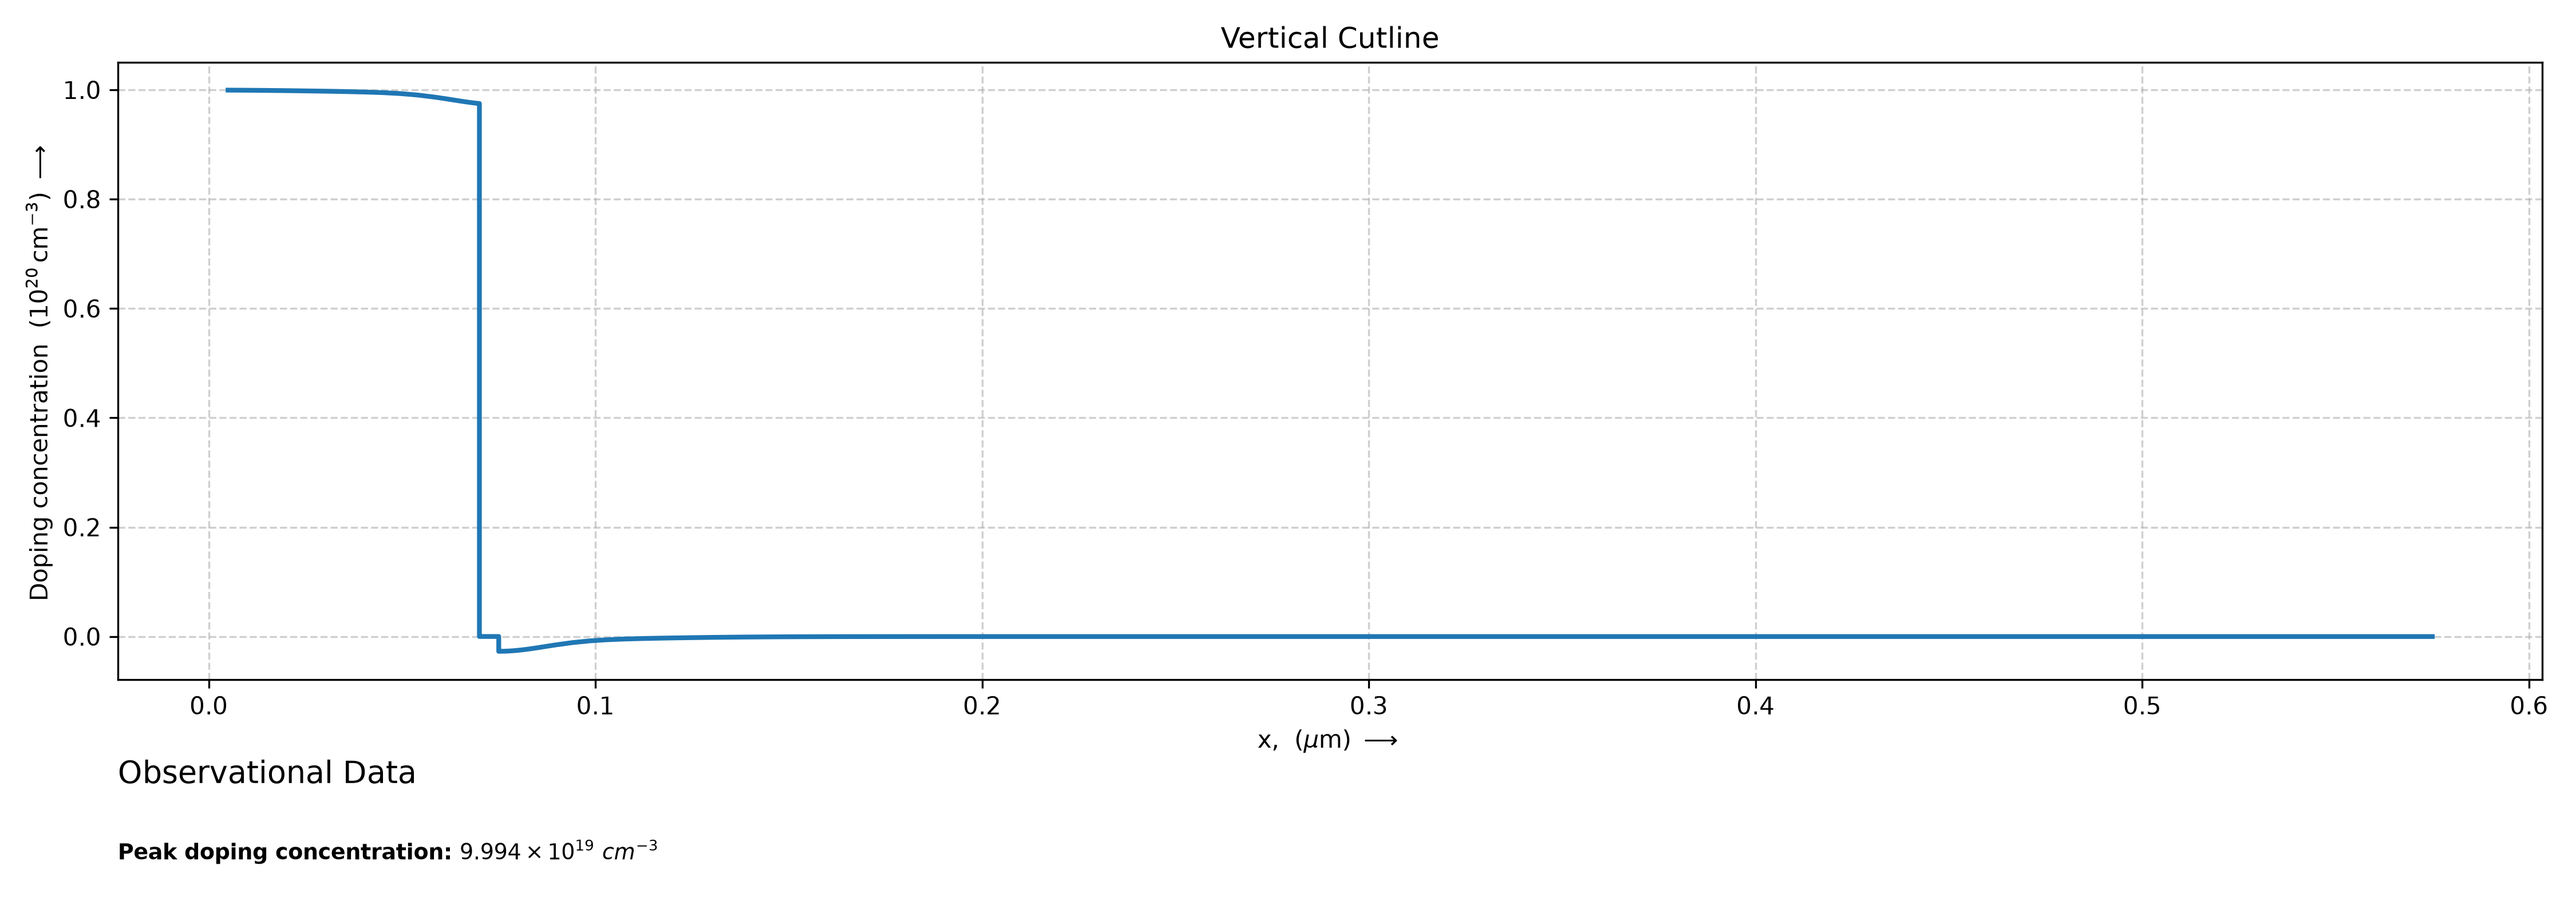
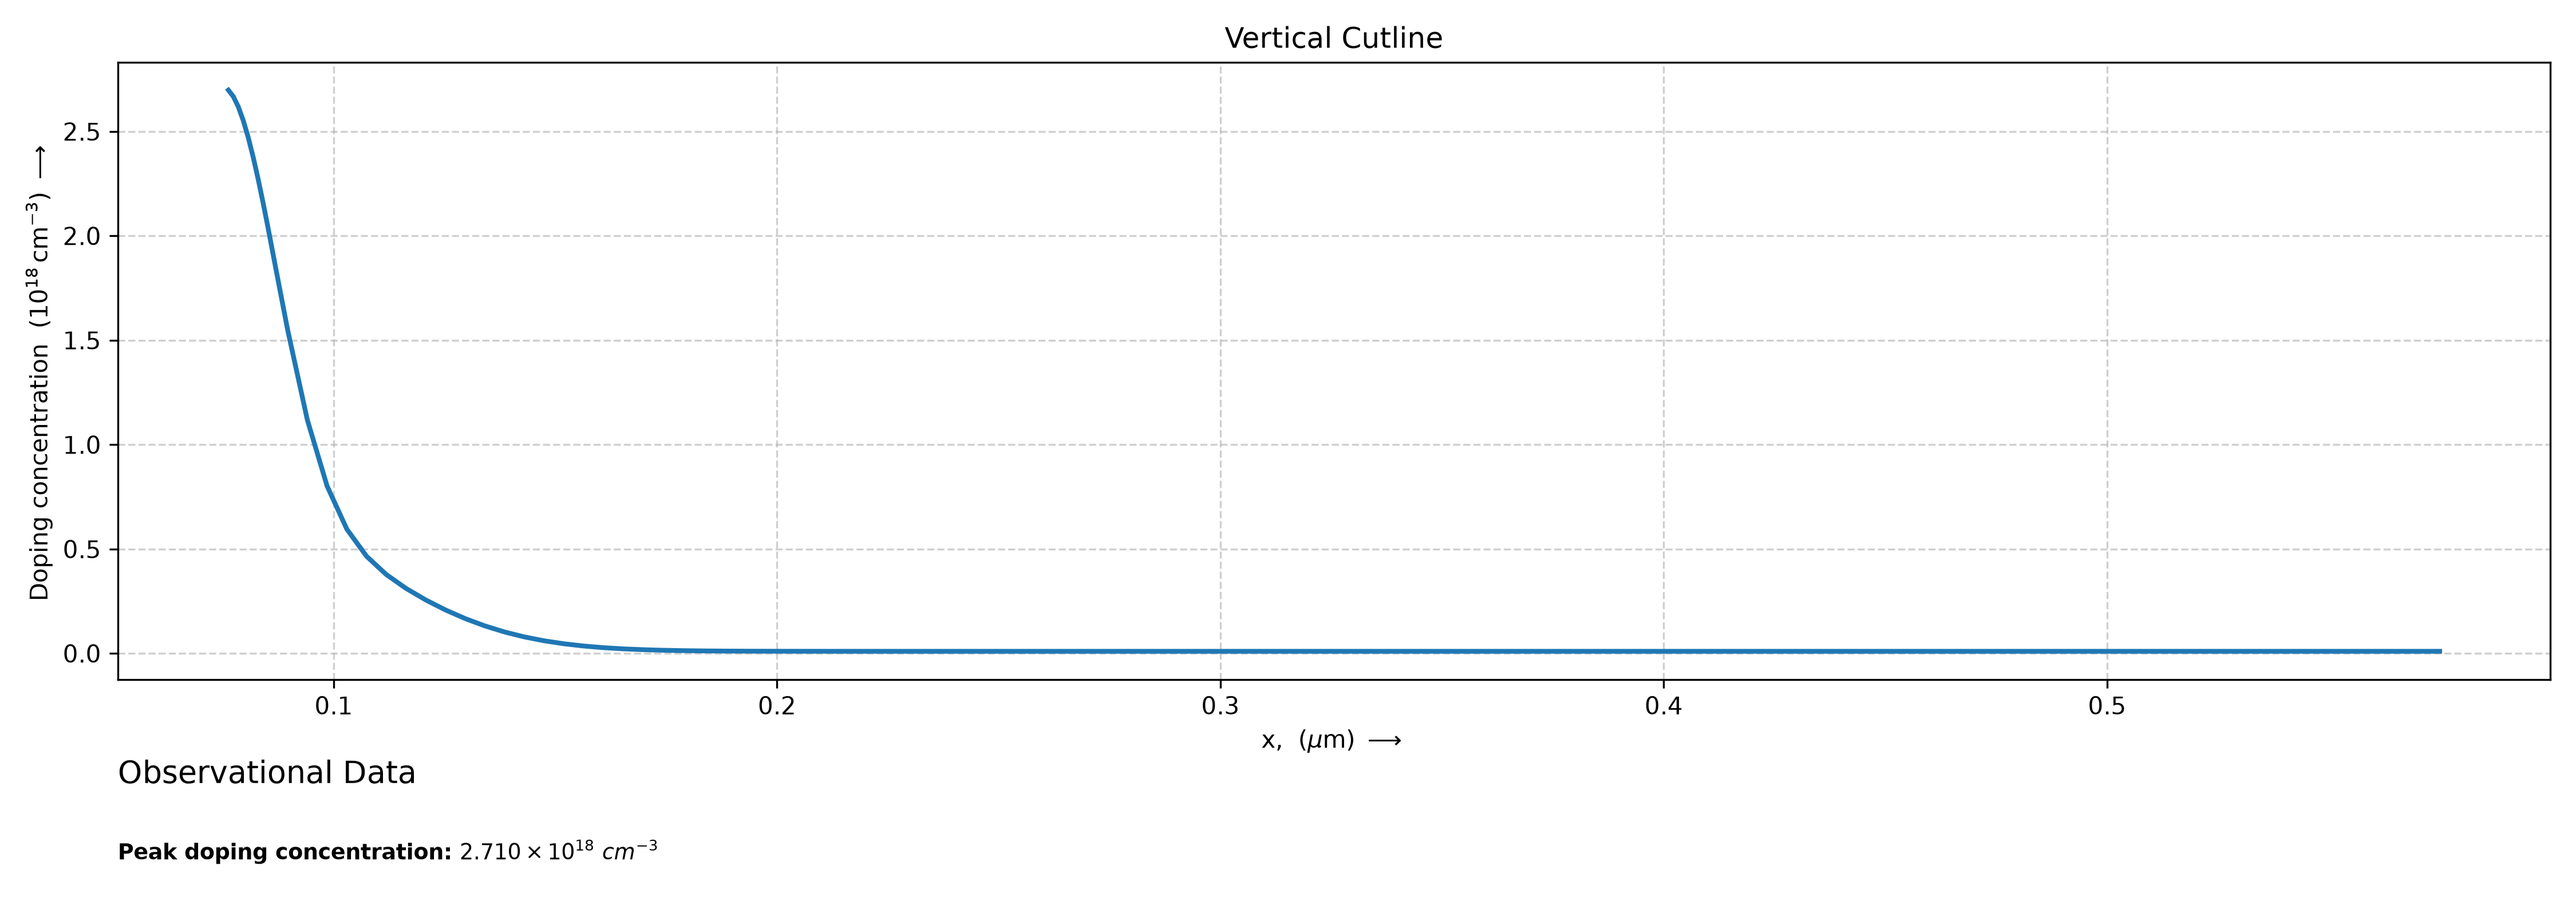
1st modification on the repo

diff --git a/Sentaurus_TCAD/py_scripts/Q2/Q2_vertical_cutline.py b/Sentaurus_TCAD/py_scripts/Q2/Q2_vertical_cutline.py
@@ -8,17 +8,24 @@ fig, ax = plt.subplots(
     1, 
     figsize=(15, 5.345)
 )
-
 #For setting up the figure to show all the plots
 manager = plt.get_current_fig_manager()
 manager.window.state(
     'zoomed'
 )
+
+
 peak_doping_conc = 0
+peak_doping_conc = abs(min(df['DopingConcentration_vertical Y']))
+df['DopingConcentration_vertical Y'] = abs( df['DopingConcentration_vertical Y'])
+print(df['DopingConcentration_vertical Y'])
 #Plotting
+
+x = df['DopingConcentration_vertical X']
+y = df['DopingConcentration_vertical Y']
 plt.plot(
-    df['DopingConcentration_vertical X'],
-    df['DopingConcentration_vertical Y']/1e20,
+    x[x >= 0.076],
+    y[x >= 0.076]/1e18,
     linewidth=2,
 )
 
@@ -26,15 +33,15 @@ plt.xlabel(
     r'x,  ($\mu$m) $\longrightarrow$'
 )
 plt.ylabel(
-    r'Doping concentration  ($10^{20}\,\mathrm{cm}^{-3}$) $\longrightarrow$'
+    r'Doping concentration  ($10^{18}\,\mathrm{cm}^{-3}$) $\longrightarrow$'
 )
 plt.title(
     r'Vertical Cutline',
 )
 
 
-peak_doping_conc=max(df['DopingConcentration_vertical Y'])
-#print(peak_doping_conc)
+
+# print(abs(peak_doping_conc))
 
 plt.text(
     0,-0.18,
@@ -47,7 +54,7 @@ plt.text(
 plt.text(
     0,-0.3,
     f'Peak doping concentration: '
-    f'${peak_doping_conc/1e19:1.3f} \\times 10^{{19}}$ $cm^{{-3}}$',
+    f'${peak_doping_conc/1e18:1.3f} \\times 10^{{18}}$ $cm^{{-3}}$',
     ha='left',
     va='bottom',
     fontsize=9,
@@ -69,8 +76,8 @@ plt.grid(
 )
 
 plt.tight_layout()
-plt.savefig(
-    'Q2_vertical_cutline.png',
-    dpi = 300
-)
+# plt.savefig(
+#     'Q2_vertical_cutline.png',
+#     dpi = 300
+# )
 plt.show()

diff --git a/Sentaurus_TCAD/py_scripts/Q2/Q2_horzontal_cutline.py b/Sentaurus_TCAD/py_scripts/Q2/Q2_horzontal_cutline.py
@@ -2,6 +2,7 @@ import pandas as pd, matplotlib.pyplot as plt, numpy as np
 df = pd.read_csv(
     r'D:\EDA_Lab\25EC01004\Sentaurus_TCAD\data\q_2_horizontal_cutline_new.csv'
 )
+channel_length = 0
 
 #For setting up the figure to show all the plots
 manager = plt.get_current_fig_manager()
@@ -10,11 +11,17 @@ manager.window.state(
 )
 
 #Plotting
+x = df['DopingConcentration_horizontal X']
+y = df['DopingConcentration_horizontal Y']
 plt.plot(
     df['DopingConcentration_horizontal X'],
     df['DopingConcentration_horizontal Y']/1e20,
     linewidth=2,
 )
+
+
+channel_length = -x.iloc[61]+x.iloc[82]
+#print(channel_length)
 
 plt.xlabel(
     r'x,  ($\mu$m) $\longrightarrow$'
@@ -26,7 +33,19 @@ plt.title(
     r'Horizontal Cutline',
 )
 
-
+plt.annotate(
+    "",
+    xy = (x.iloc[61],0.05),
+    xytext= (x.iloc[82], 0.05),
+    arrowprops=dict(arrowstyle='<->')
+)
+plt.text(
+    (x.iloc[61] + x.iloc[82])/2,
+    0.05,
+    f"{channel_length:2.6f} $\\mu m$",
+    ha = 'center',
+    va = 'bottom'
+)
 
 
 plt.grid(

diff --git a/Sentaurus_TCAD/py_scripts/Q6_Output_Characteristics.py b/Sentaurus_TCAD/py_scripts/Q6_Output_Characteristics.py
@@ -45,7 +45,7 @@ ax[0].set_xlabel(
     r'$V_{DS}$,  (V) $\longrightarrow$'
 )
 ax[0].set_ylabel(
-    r'$I_D$,  (mA) $\longrightarrow$'
+    r'$I_D$,  ($mA/ \mu m$) $\longrightarrow$'
 )
 
 
@@ -72,7 +72,7 @@ ax[1].set_xlabel(
     r'$V_{DS}$,  (V) $\longrightarrow$'
 )
 ax[1].set_ylabel(
-    r'$g_D$,  (mS) $\longrightarrow$'
+    r'$g_D$,  ($mS \cdot \mu m$) $\longrightarrow$'
 )
 
 g_o = (dI_d_dV_d[df[v_gs[1.5][0]] == 3])[0]
